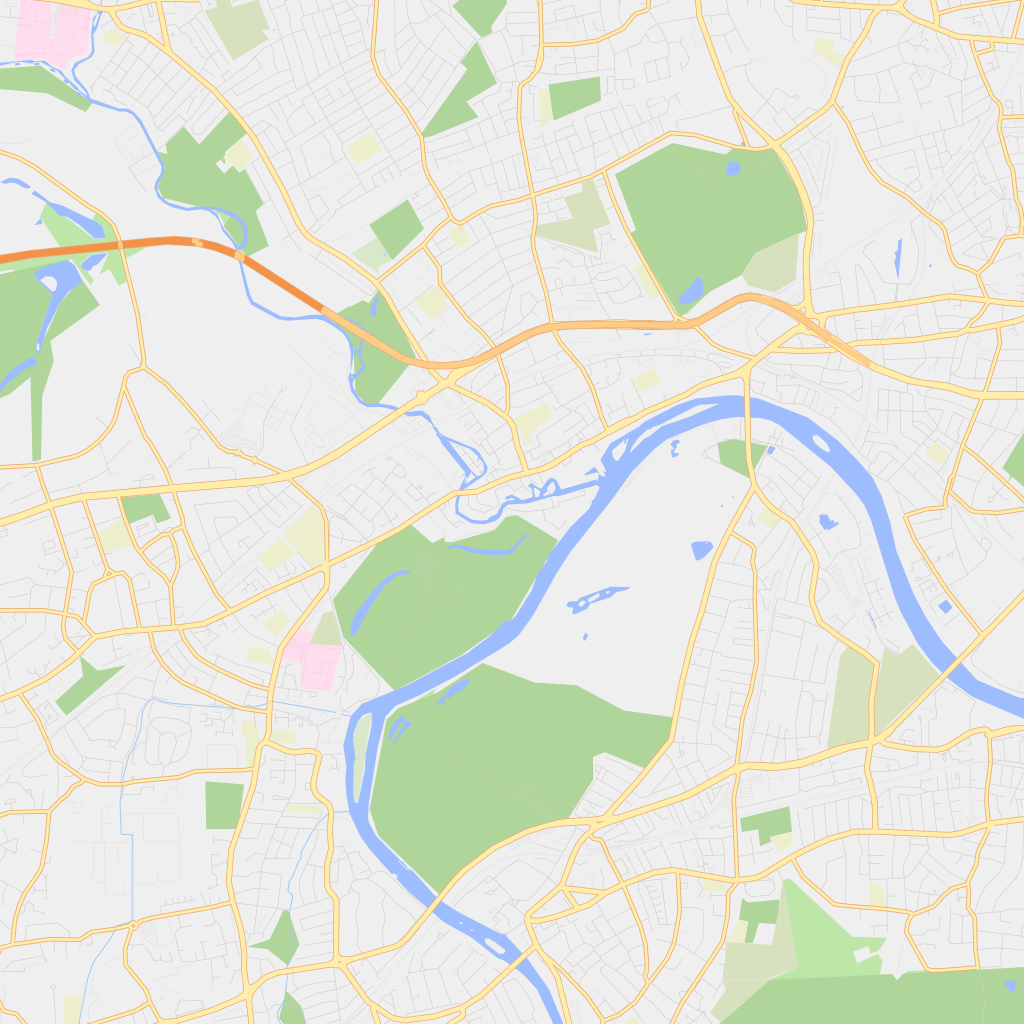
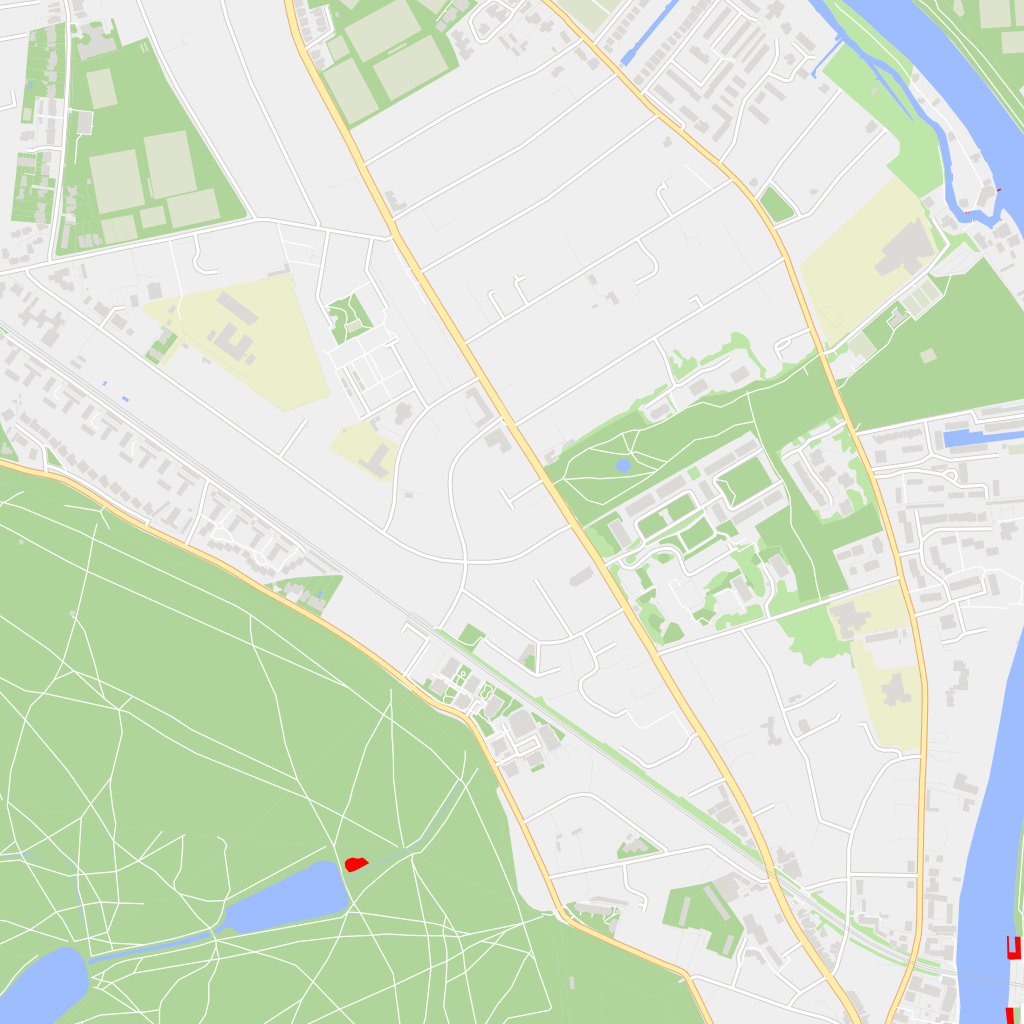
process geofabrik download to pmtile

diff --git a/test.py b/test.py
@@ -41,7 +41,7 @@ test_rules = [
 
 
 if __name__ == "__main__":
-    pmmap = PMMap(center=(-0.264333, 51.445114), zoom=12, size=(500, 500))
+    pmmap = PMMap(center=(-0.3097, 51.4118), zoom=14, size=(500, 500))
 
     p = pathlib.Path("style2.json")
     style = Parser().parse(p)
@@ -56,4 +56,6 @@ if __name__ == "__main__":
         for tile in pmmap.tiles()[0:1]:
             message = TileData(reader.xyz(tile.xyz)).get_message()
 
-            to_pillow(draw(style, tile.xyz.z, message, 1024)).show()
+            img=to_pillow(draw(style, tile.xyz.z, message, 1024))
+            img.show()
+            img.save("output.png","PNG")

diff --git a/drawing.py b/drawing.py
@@ -134,6 +134,8 @@ def saved(ctx: cairo.Context):
         ctx.restore()
 
 
+
+
 class PolygonFeatureDrawing(FeatureDrawing):
     def __init__(self, drawing: Drawing):
         self.drawing = drawing

diff --git a/serve.py b/serve.py
@@ -34,4 +34,4 @@ def tile(z, x, y):
     return bottle.HTTPResponse(out.getvalue(), content_type="image/png")
 
 
-bottle.run(host='127.0.0.1', port=8000)
+bottle.run(host='0.0.0.0', port=8000)

diff --git a/README.md b/README.md
@@ -4,6 +4,7 @@ A pmtiles renderer in python using cairo
 
 ## Example
 
+![Example](examples/map.png)
 ![Example](examples/2023-11-17.png)
 
 ### Features
